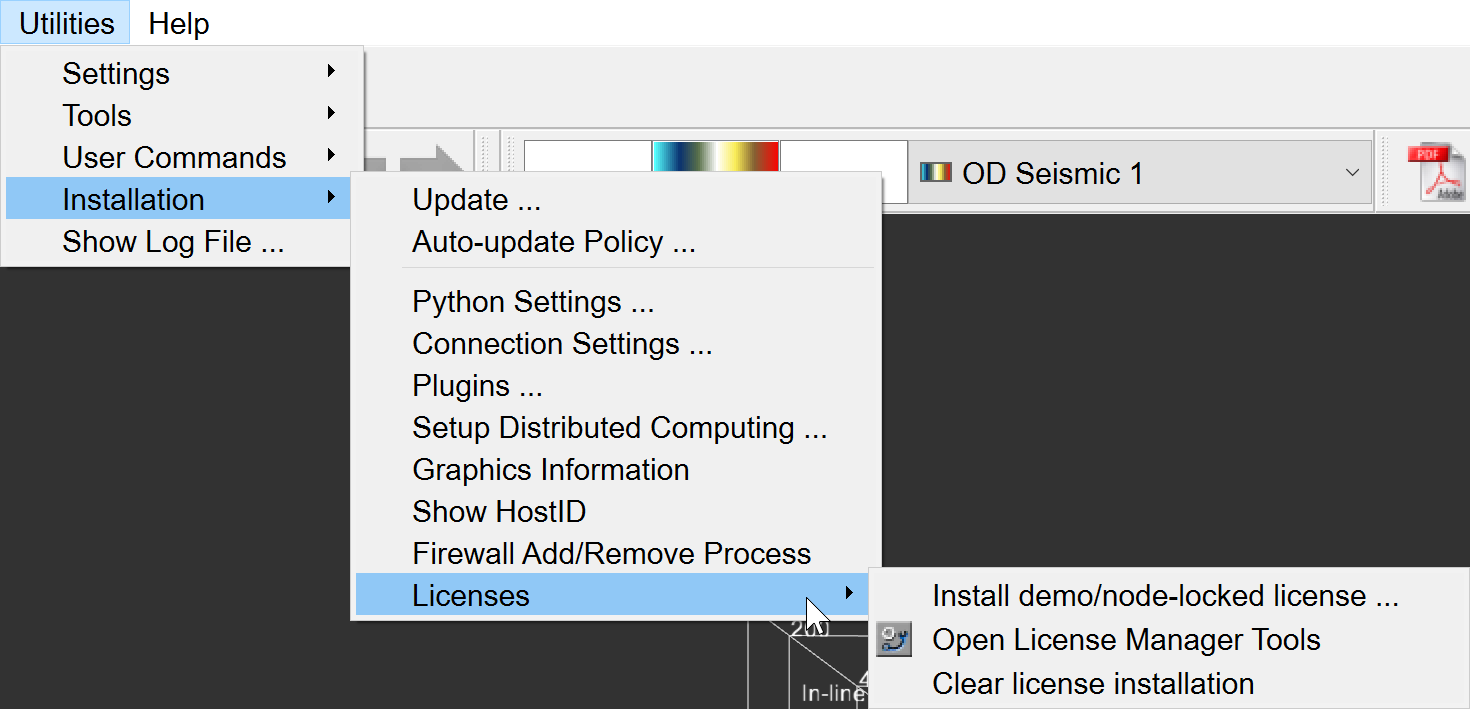
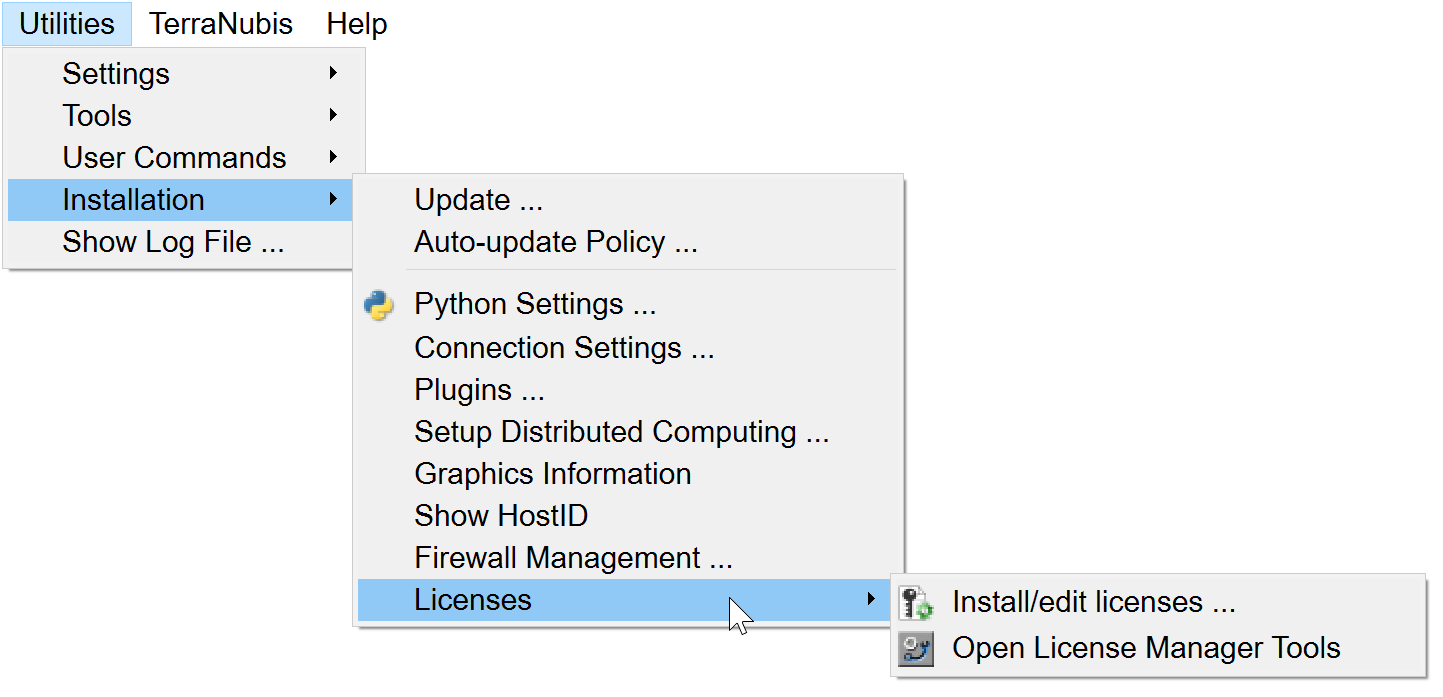
Various updates to Utilities->Installation->Licenses
Not yet completed/checked, so not yet published to website.

diff --git a/od_userdoc/Content/Utilities/Installation/Licenses/Install_Demo_Node-Locked_License.htm b/od_userdoc/Content/Utilities/Installation/Licenses/Install_Demo_Node-Locked_License.htm
@@ -3,15 +3,67 @@
     <head>
     </head>
     <body>
-        <h4>9.4.10.1 Install demo/node-locked license<MadCap:keyword term="Install Demo/Node-Locked License" /></h4>
+        <h4>9.4.10.1 Install/edit licenses</h4>
         <p>Plugins to OpendTect can be run either by using a license server or by using demo (evaluation) licenses. This second case is case called "node-locked license installation". </p>
-        <img src="../../../Resources/Images/Utilities/utils_inst_lics_inst_demo_popout.png" class="General_Image" />
-        <p>Use the following window to specify the path to the node-locked (demo/evaluation) license files that were given to you:</p>
-        <img src="../../../Resources/Images/Utilities/Installation licenses install demo license.png" class="General_Image" />
-        <p>Here you can install each of the licenses by simply clicking ‘Select’, choosing the appropriate license file and clicking ‘Ok’ in the file selection window. Once you have selected all the licenses you are evaluating, click ‘<i>Ok</i>'. Your installation will be confirmed and you will be prompted to re-start OpendTect:</p>
-        <img src="../../../Resources/Images/Utilities/Node_locked_inst_confirm.png" class="General_Image" />
-        <p>In addition to the core functionality, you may click '<i>Request Evaluation License</i>' to bring you to the <a href="https://dgbes.com/index.php/contact" target="_blank">contact page</a> of the dGB&#160;website where you can request an evaulation license and/or request a quote.</p>
-        <p>And, on Windows only, use the '<i>License Manager Tools</i>' button to pop up the Flexera LM Tools window for more direct access to it features:</p>
+        <img src="../../../Resources/Images/Utilities/utils_inst_lics_inst_demo_popout.png" class="General_Image" style="width: 861px;height: 414px;" />
+        <p>This will bring up the following window which you can use to point OpendTect to the license file:</p>
+        <p style="text-indent: 0.5in;">
+            <img src="../../../Resources/Images/Utilities/Installation licenses install license.png" style="width: 1045px; height: 212px;" class="General_Image" />
+        </p>
+        <p>Here you can:</p>
+        <ul>
+            <li>
+                <p>Specify the <b>License Type</b>:</p>
+                <p>
+                    <img src="../../../Resources/Images/Utilities/Installation licenses install license types.png" style="width: 1098px; height: 225px;" class="General_Image" />
+                </p>
+            </li>
+            <li>
+                <p><b>Select</b> the location of the license file</p>
+            </li>
+            <li>
+                <p><b>Examine</b> the license file:</p>
+                <p>
+                    <img src="../../../Resources/Images/Utilities/inst_lic_examine.png" style="width: 781px; height: 672px;" class="General_Image" />
+                </p>
+            </li>
+        </ul>
+        <ul>
+            <li>
+                <p><b>Install</b> the license file. On pressing <b>Install</b>, you will see a prompt warning that a restart will be necessary:</p>
+            </li>
+        </ul>
+        <blockquote>
+            <p>
+                <img src="../../../Resources/Images/Utilities/inst_install_restart_msg.png" style="width: 381px; height: 165px;" class="General_Image" />
+            </p>
+        </blockquote>
+        <p style="text-indent: 0.5in;">Pressing <i>Continue</i> will complete the installation of the license file and bring up this window:</p>
+        <blockquote>
+            <p>
+                <img src="../../../Resources/Images/Utilities/inst_install_success_msg.png" style="width: 384px; height: 167px;" class="General_Image" />
+            </p>
+            <p>Pressing <i>Continue</i> again will restart OpendTect.</p>
+        </blockquote>
+        <ul>
+            <li>
+                <p><b>Clear</b>  the license file. On pressing <b>Clear</b>, you will see a prompt warning that a restart will be necessary:</p>
+                <p>
+                    <img src="../../../Resources/Images/Utilities/inst_clear_restart_msg.png" style="width: 402px; height: 174px;" class="General_Image" />
+                </p>
+            </li>
+        </ul>
+        <p style="text-indent: 0.5in;">Pressing <i>Continue</i> will complete the clearing of the license file and bring up this window:</p>
+        <blockquote>
+            <p>
+                <img src="../../../Resources/Images/Utilities/inst_clear_success_msg.png" style="width: 412px; height: 177px;" class="General_Image" />
+            </p>
+            <p>Pressing <i>Continue</i> again will restart OpendTect.</p>
+        </blockquote>
+        <p>&#160;</p>
+        <p>&#160;</p>
+        <p>In addition to the core functionality, you may click '<i>Request Evaluation License</i>' to bring you to the <a href="https://dgbes.com/index.php/contact" target="_blank">contact page</a> of the dGB&#160;website where you can request an evaluation license and/or request a quote.</p>
+        <p>And (Windows only) use the '<i>License Manager Tools</i>' button to pop up the Flexera LM Tools window:</p>
         <img src="../../../Resources/Images/Utilities/inst_man_lm_tools_main.png" class="General_Image" />
     </body>
 </html>

diff --git a/od_userdoc/Content/Utilities/Installation/Licenses.htm b/od_userdoc/Content/Utilities/Installation/Licenses.htm
@@ -8,9 +8,11 @@
         <img src="../../Resources/Images/Utilities/Installation licenses popout windows.png" class="General_Image" style="width: 893px;height: 430px;" />
         <p><i>License options under Windows</i>
         </p>
+        <p>&#160;</p>
         <img src="../../Resources/Images/Utilities/Installation licenses popout linux.png" class="General_Image" />
         <p><i>License options under Linux</i>
         </p>
+        <p>&#160;</p>
         <p>For information about floating or server-based licenses, please refer to the <a href="https://dgbes.com/index.php/software/licenses#flexnet-installation-guide" MadCap:conditions="Default.ScreenOnly" target="_blank">flexnet installation guide</a><MadCap:conditionalText MadCap:conditions="Default.PrintOnly">flexnet installation guide</MadCap:conditionalText> page</p>
         <p>For more general information about OpendTect licensing options, please see the <a href="https://dgbes.com/index.php/software/licenses" target="_blank" MadCap:conditions="Default.ScreenOnly">support licenses</a><MadCap:conditionalText MadCap:conditions="Default.PrintOnly">support licenses page</MadCap:conditionalText></p>
         <p>A more complete explanation of OpendTect license Installation can be found in the <a href="https://www.youtube.com/watch?v=y5gEfHc2Vlc" target="_blank" MadCap:conditions="Default.ScreenOnly">License Installation Webinar</a><MadCap:conditionalText MadCap:conditions="Default.PrintOnly">License Installation Webinar</MadCap:conditionalText>, available on <a href="https://www.youtube.com/channel/UCiaLX2p5rCcovOK_NAwpaOQ" target="_blank" MadCap:conditions="Default.ScreenOnly">OpendTect's YouTube Channel</a><MadCap:conditionalText MadCap:conditions="Default.PrintOnly">OpendTect's Youtube Channel</MadCap:conditionalText>.</p>

diff --git a/od_userdoc/Content/Utilities/Installation/Licenses/Open_License_Manager_Tools.htm b/od_userdoc/Content/Utilities/Installation/Licenses/Open_License_Manager_Tools.htm
@@ -5,7 +5,10 @@
     <body>
         <h3>9.4.10.2 Open License Manager Tools<MadCap:keyword term="Open License Manager Tools" /></h3>
         <p>This will open the Flexera License Manager Tools (LMTools).</p>
-        <p>Please refer to the <a href="https://doc.opendtect.org/6.6.0/doc/admindoc/Default.htm#installation/license_server/installing-license-server-on-windows.htm%3FTocPath%3D2%2520Installation|License%2520server|_____2" target="_blank">OpendTect Administrator's Manual</a> for more information.</p>
+        <p>Please refer to the <a href="https://doc.opendtect.org/6.6.0/doc/admindoc/Default.htm#installation/license_server/installing-license-server-on-windows.htm" target="_blank">OpendTect Administrator's Manual</a> for more information.</p>
+        <p>&#160;</p>
+        <p><b>Note:</b><u> This is a Windows-only application.</u>
+        </p>
         <p>
             <img src="../../../Resources/Images/Utilities/utilities_installation_licenses_lmtools.png" class="General_Image" style="width: 678px;height: 416px;" />
         </p>
